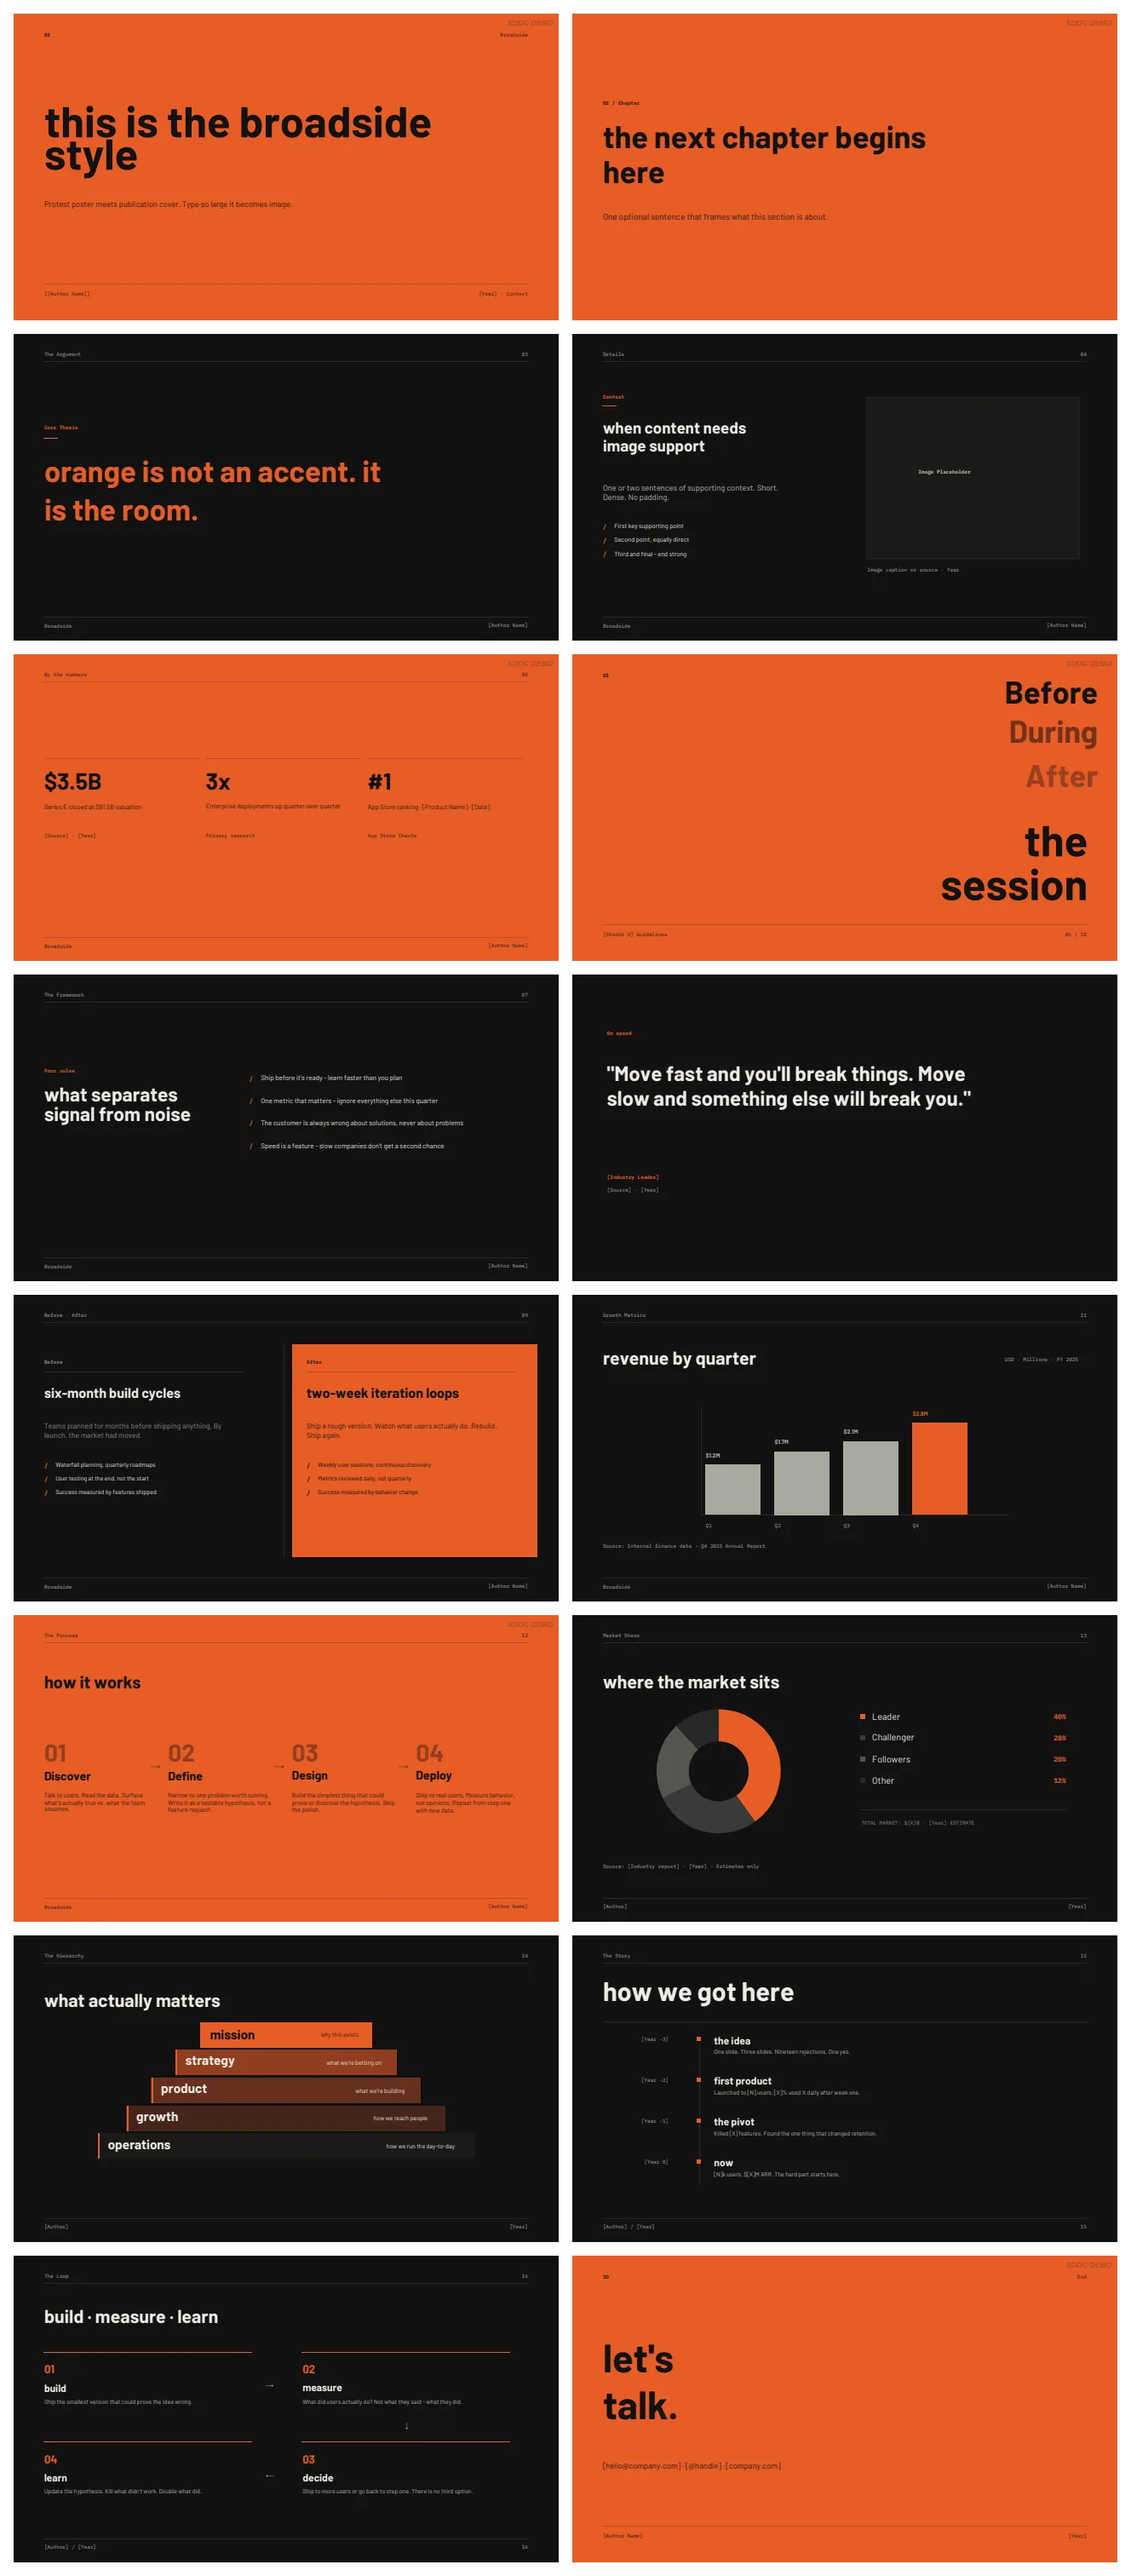
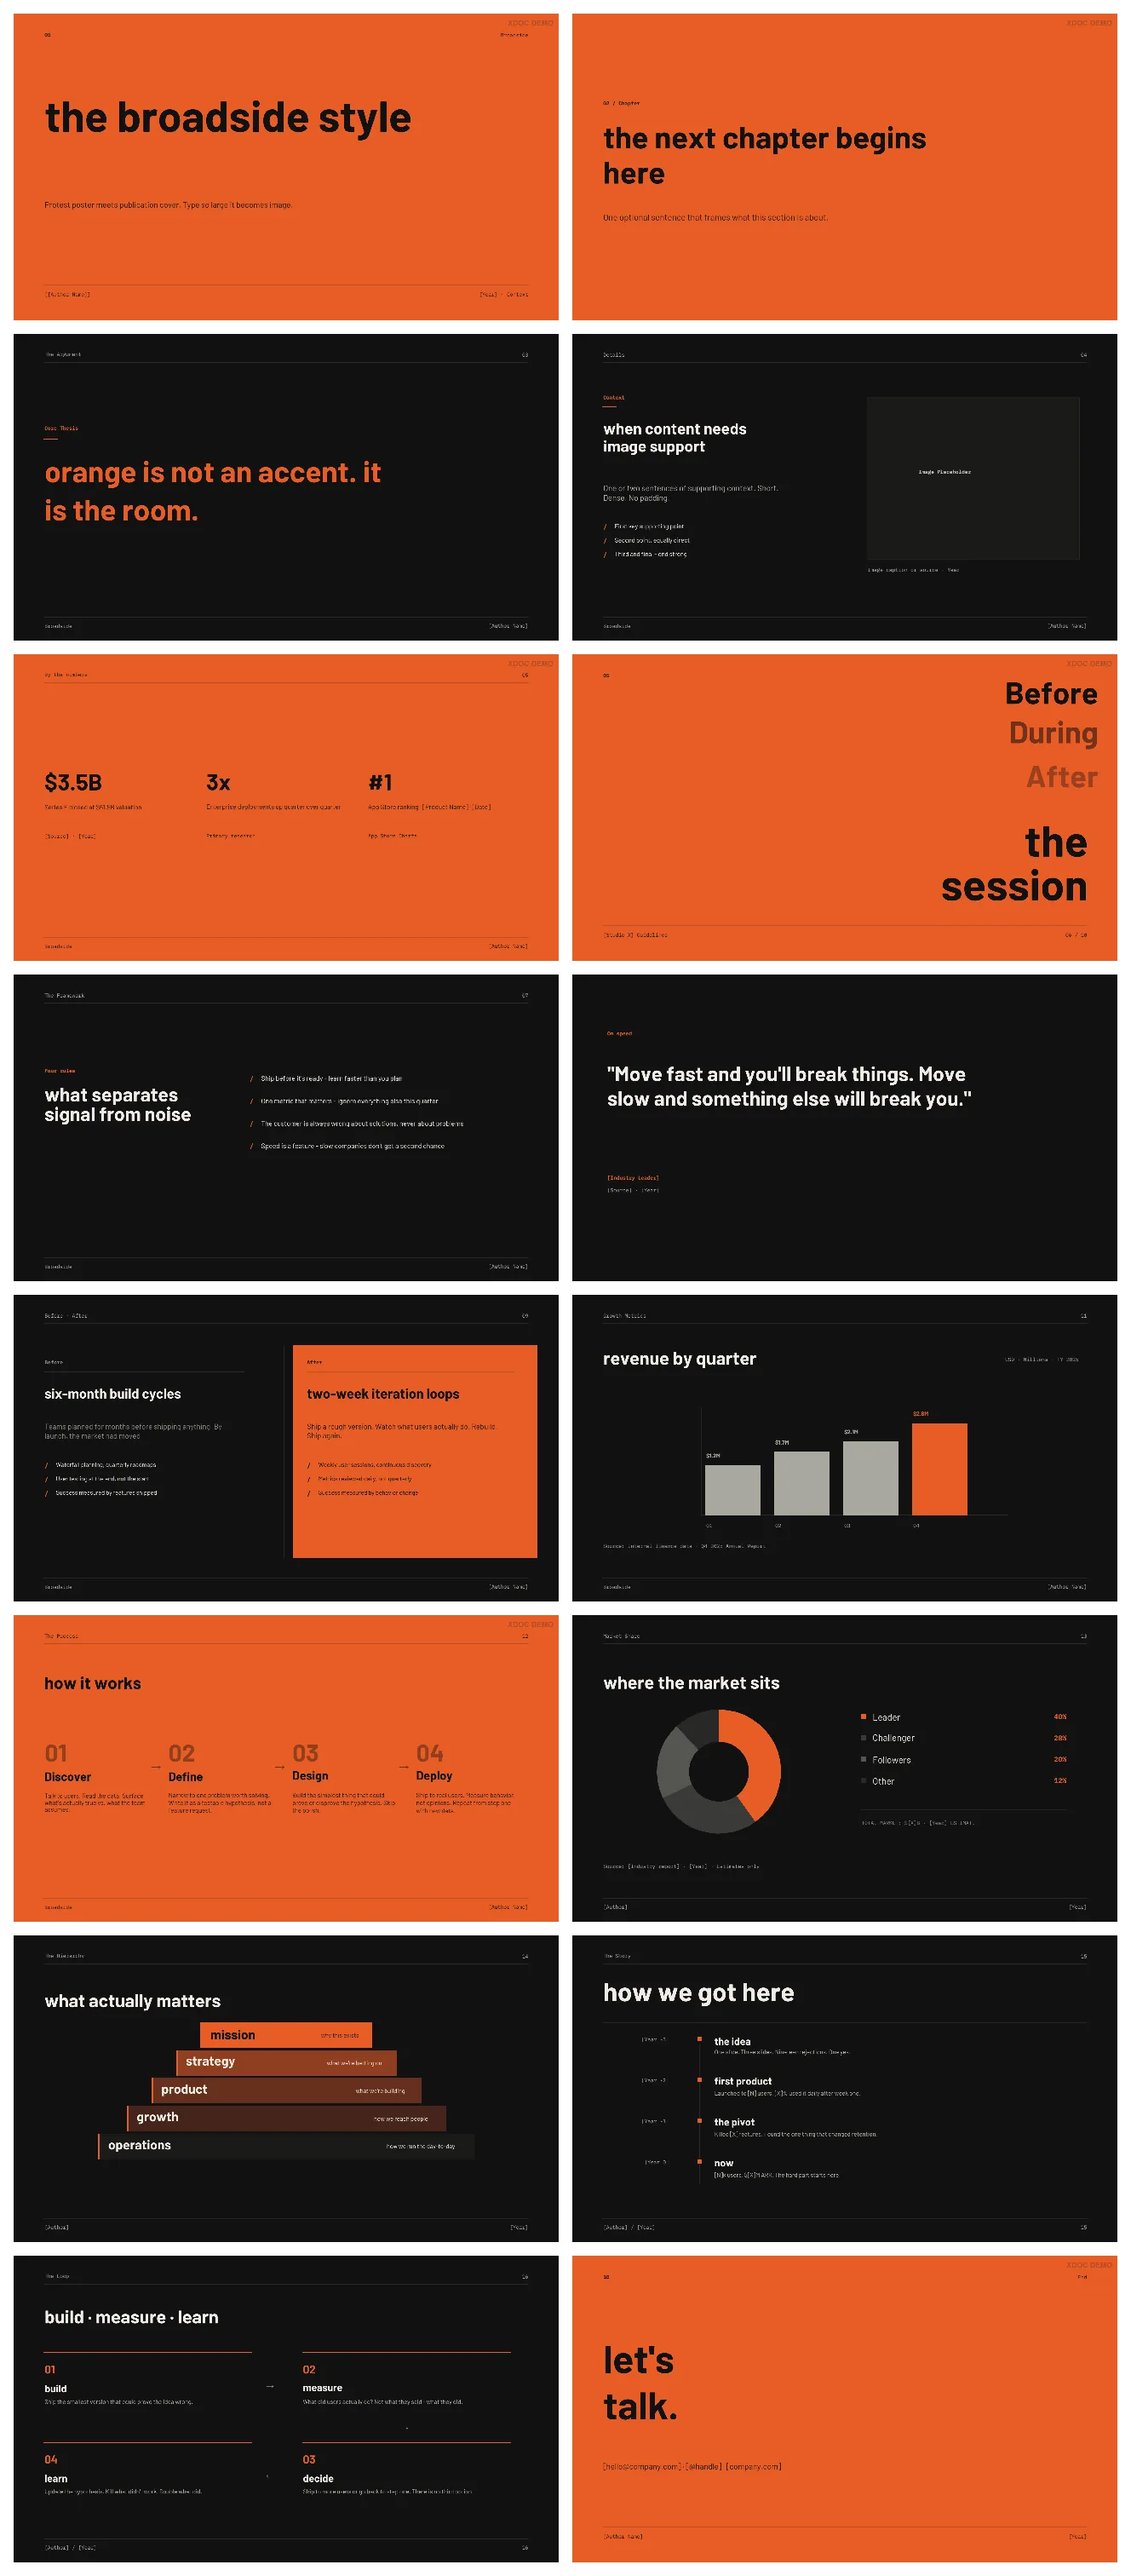
fix(pptx-nova): shorten broadside cover title to satisfy single-line budget
The broadside DeckKit example cover title exceeded the single-line
title budget enforced by delivery validation (76pt, 1 line, 176.4pt
height), breaking CI. Shorten the title from 'this is the broadside
style' to 'the broadside style' and regenerate the example deck,
contact sheet, content, brief, summary, and manifest via
tools/update-pptx-nova-deckkit-examples.mjs.

diff --git a/pptx-nova/assets/examples/broadside/brief.md b/pptx-nova/assets/examples/broadside/brief.md
@@ -5,7 +5,7 @@ Showcase case: `broadside.golden-html`
 Readiness: `production`
 Slides: 16
 Patch ops: 888
-Title: this is the broadside style
+Title: the broadside style
 
 ## Best For
 
